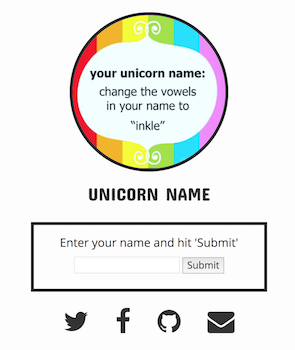
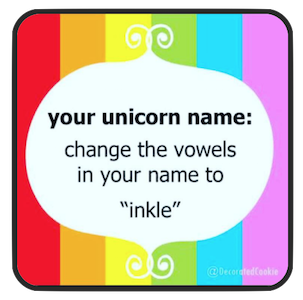
Facebook share button, new screenshots
- updated github screenshot
- added facebook share screenshot
- embeded theme
- changed title
- lowercased 'About' .Site.Params
- added .Site.Params.Screenshot for facebook share feature
- profile picture circle is now a rectangle-ish

diff --git a/themes/nix/layouts/index.html b/themes/nix/layouts/index.html
@@ -4,16 +4,44 @@
 <head>
 		<title> {{ .Site.Title }} </title>
 
+		{{ with .Site.BaseURL }}
+		<meta property="og:url"           content="{{.}}" />
+		{{ end }}
+		
+		<meta property="og:type"          content="website" />
+		
+		{{ with .Site.Params.Title }}
+		<meta property="og:title"         content="{{.}}" />
+		{{ end }}
+
+		{{ with .Site.Params.About }}
+		<meta property="og:description"   content="{{.}}" />
+		{{ end }}
+
+		{{ with .Site.Params.Screenshot }}
+		<meta property="og:image"         content="{{.}}" />
+		{{ end }}
 		{{ partial "head.html" . }}
 
 </head>
 
 <body>
+	<!-- Facebook JavaScript SDK -->
+	<div id="fb-root"></div>
+	<script>(function(d, s, id) {
+		var js, fjs = d.getElementsByTagName(s)[0];
+		if (d.getElementById(id)) return;
+		js = d.createElement(s); js.id = id;
+		js.src = "//connect.facebook.net/en_US/sdk.js#xfbml=1&version=v2.10";
+		fjs.parentNode.insertBefore(js, fjs);
+	}(document, 'script', 'facebook-jssdk'));</script>
+	<!-- Facebook JavaScript SDK END -->
+
 	{{ partial "header.html" . }}
 	<div class="container wrapper">
 		{{ with .Site.Params.ProfilePicture }}
 		<div class="row">
-			<div class="col-sm-3 col-centered">
+			<div class="col-sm-3 col-centered text-center">
 				<img alt="profile-picture" class="img-responsive img-circle user-picture" src="{{.}}">
 			</div>
 		</div>
@@ -35,7 +63,22 @@
 			</div>
 		</div>
 		<div class="row">
+			<div class="col-xs-12 share-facebook text-center">
+				<!-- Facebook button -->
+				<!--<div class="fb-share-button" data-href="https://www.jbfreels.com/unicorn-name/" data-layout="box_count" data-size="small" data-mobile-iframe="true"><a class="fb-xfbml-parse-ignore" target="_blank" href="https://www.facebook.com/sharer/sharer.php?u=https%3A%2F%2Fwww.jbfreels.com%2Funicorn-name%2F&amp;src=sdkpreparse">Share</a></div>
+				-->
+				{{ with .Site.BaseURL }}
+				<div class="fb-share-button" 
+					data-href="{{.}}" 
+					mobile-iframe="true"
+					data-layout="button_count">
+				</div>
+				{{ end }}
+				<!-- Facebook butotn END -->
+			</div>
 			<div class="col-xs-12 user-social text-center">
+
+				
 				{{ with .Site.Params.SlackURL }}
 				<a href="{{.}}" title="Slack"><i class="fa fa-slack fa-3x" aria-hidden="true"></i></a> 
 				{{ end }} 

diff --git a/themes/nix/static/css/nix.css b/themes/nix/static/css/nix.css
@@ -66,6 +66,16 @@ h1,h2,h3,h4,h5,h6 {
 	margin-top: 20px;
 }
 
+.img-circle {
+	border-radius: 10%;
+}
+.img-responsive {
+	max-width: 100%;
+}
+.share-facebook {
+	padding: 0px 0px 10px 0px;
+}
+
 i {
 	margin: 10px 20px 10px 20px;
 	color: #333;

diff --git a/README.md b/README.md
@@ -1,4 +1,4 @@
-![Alt text](/static/images/screenshot.png?raw=true "Screenshot")
+![Alt text](/static/images/github-screen.png?raw=true "Screenshot")
 
 # unicorn-name
 What is your unicorn name?
